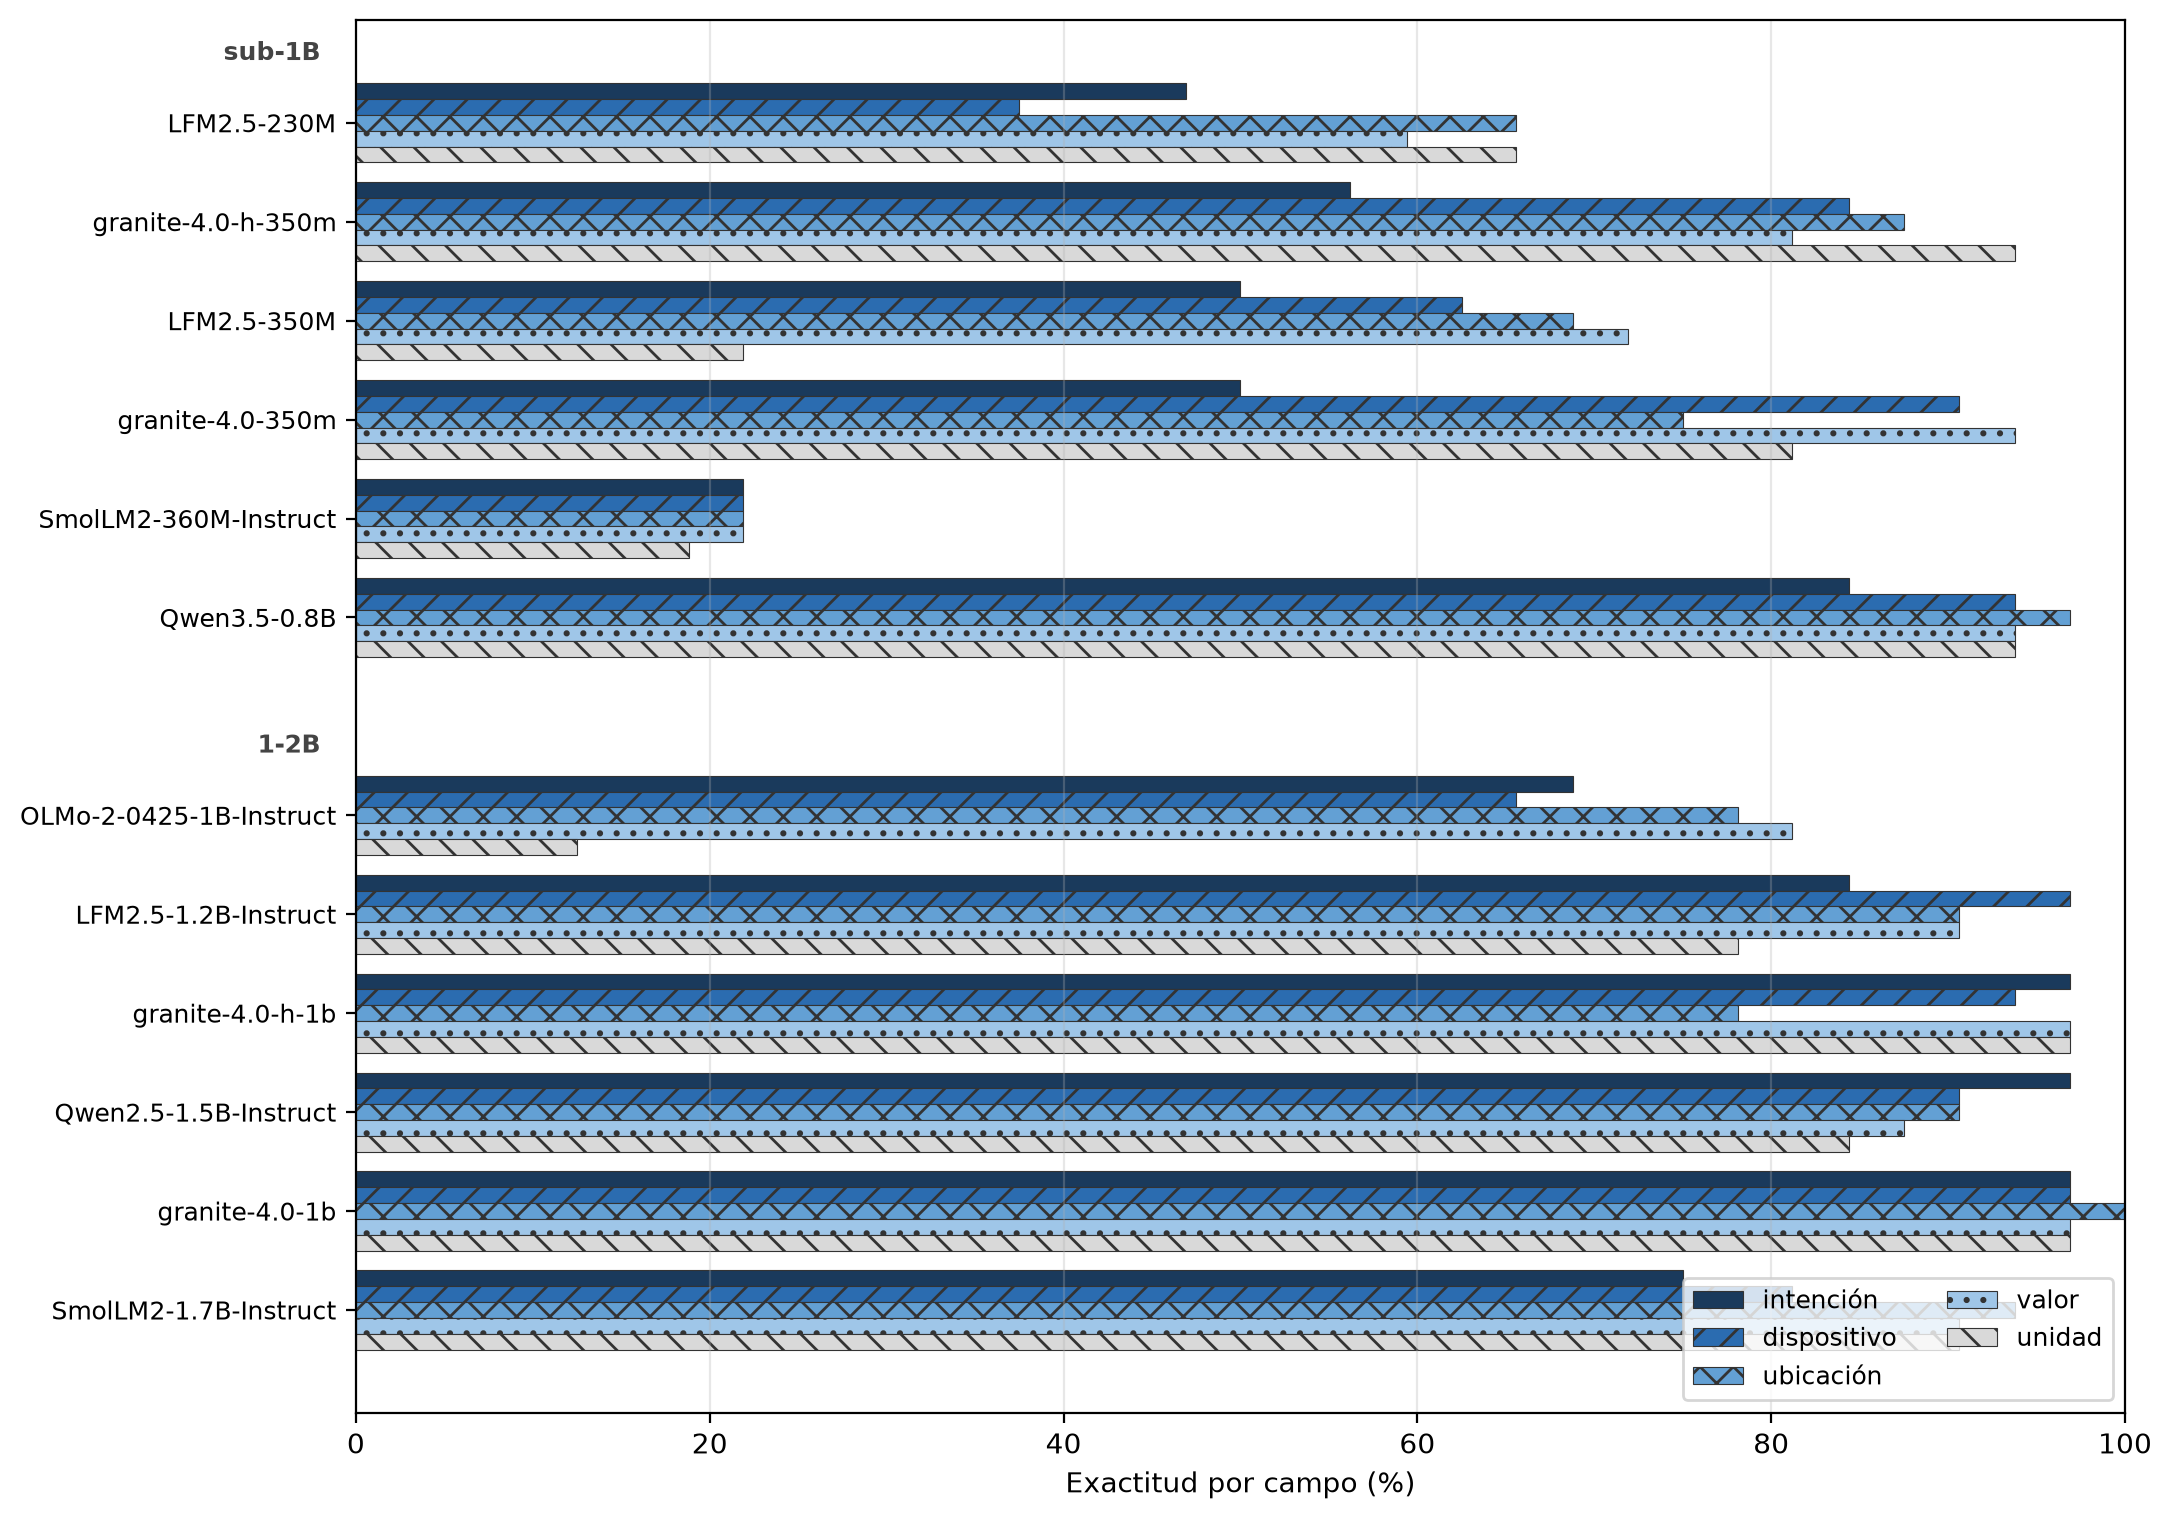
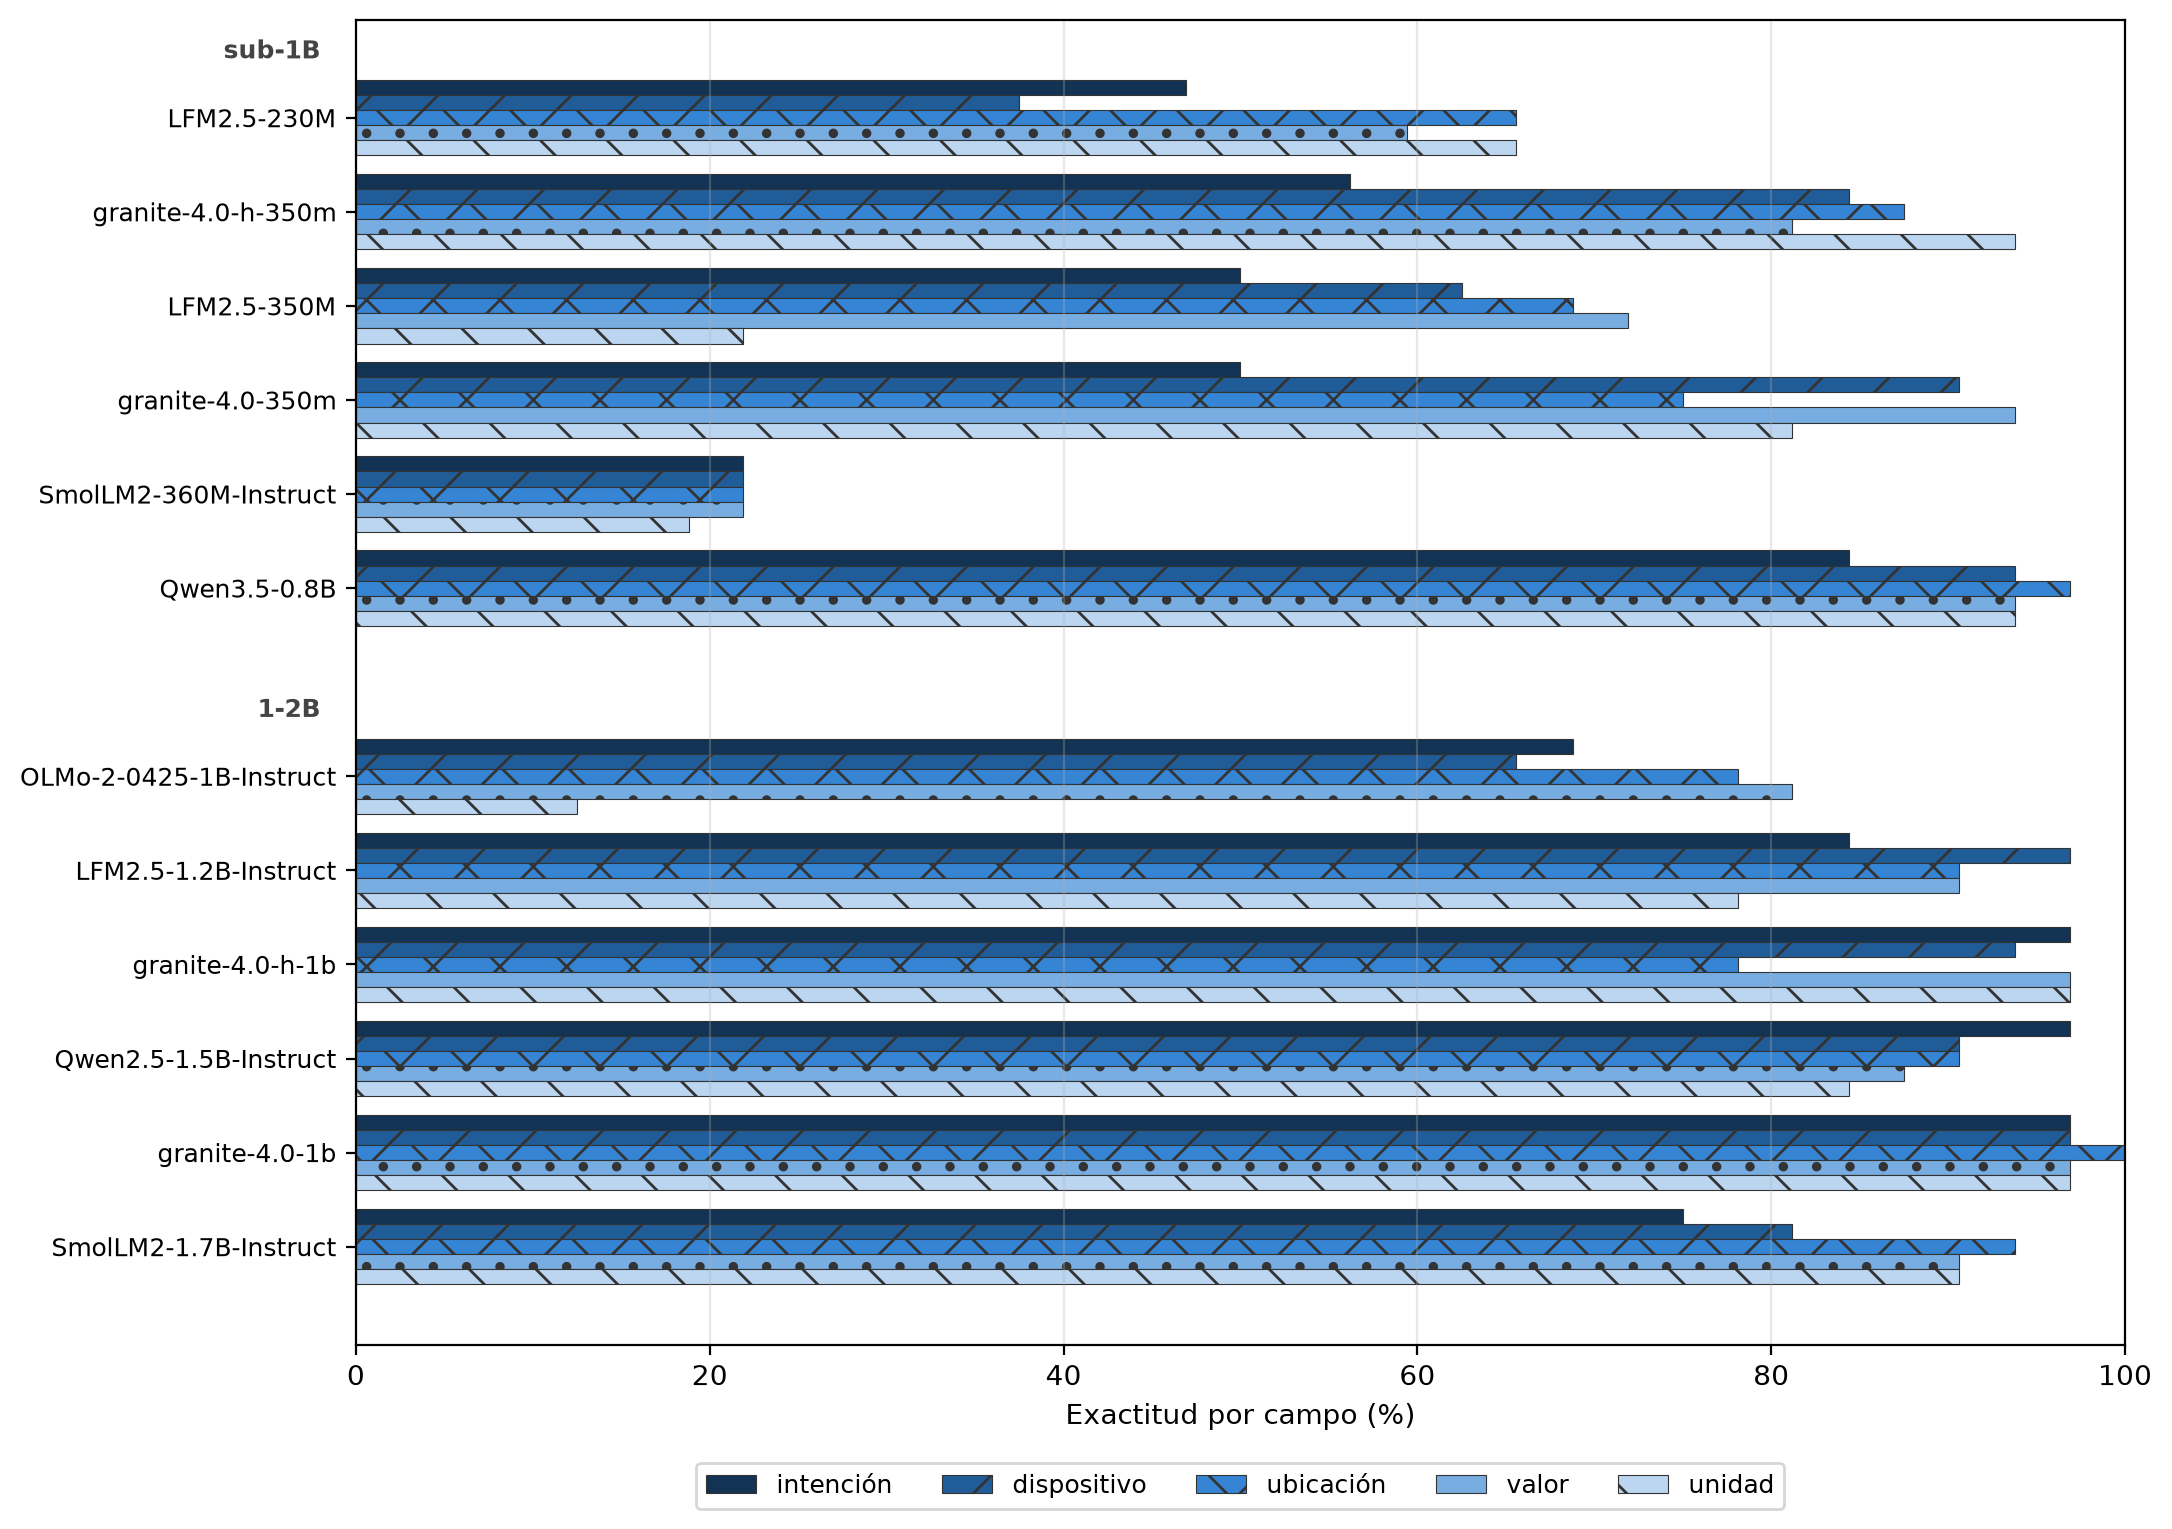
fix(2026): leyenda completa en fig1 y paleta/rayado/leyenda legibles en fig2
fig1: agrega una tercera entrada de leyenda (parche proxy) para el rayado
"laxa con JSON invalido", que antes solo se aplicaba post-hoc a dos barras
sin quedar explicado en la leyenda de 2 entradas.

fig2: reduce el rayado de las 5 series a un solo caracter (evita moire a
ancho de columna LNCS), reemplaza el par de celestes casi identicos
(ubicacion/valor) por una rampa de luminancia monotona con saltos >35/255,
y mueve la leyenda debajo del area de datos (ya no tapa las barras de
SmolLM2-1.7B-Instruct).

Sin cambios de datos, valores ni orden de modelos -- solo presentacion.
Verificado en escala de grises: las 5 series de fig2 siguen siendo
distinguibles por luminancia + textura.

diff --git a/src/generate_figures_2026.py b/src/generate_figures_2026.py
@@ -34,6 +34,7 @@ from pathlib import Path
 
 import matplotlib
 matplotlib.use("Agg")
+import matplotlib.patches as mpatches  # noqa: E402
 import matplotlib.pyplot as plt  # noqa: E402
 
 RAIZ = Path(__file__).resolve().parent.parent
@@ -52,14 +53,19 @@ CAMPOS_FIG2 = [
 ]
 
 # Orden categórico fijo para los 5 campos de fig. 2: un color por campo más
-# una textura redundante, para que la serie se distinga sin depender del
-# color (impresión en escala de grises).
+# una textura redundante de densidad mínima (un solo carácter), para que la
+# serie se distinga sin depender del color -- pero sin producir moire a
+# ancho de columna LNCS. Los 5 tonos son una rampa de luminancia monótona
+# (evitando el par "casi idéntico" #63a0d4/#9fc6e8 del diseño anterior, que
+# en escala de grises solo se distinguía por el rayado): luminancia
+# aproximada 45 / 81 / 118 / 164 / 209 sobre 255, con saltos >35 entre
+# vecinos.
 ESTILOS_FIG2 = [
-    {"color": "#1a3a5c", "hatch": None},
-    {"color": "#2b6cb0", "hatch": "//"},
-    {"color": "#63a0d4", "hatch": "xx"},
-    {"color": "#9fc6e8", "hatch": ".."},
-    {"color": "#d9d9d9", "hatch": "\\\\"},
+    {"color": "#123354", "hatch": None},
+    {"color": "#205c97", "hatch": "/"},
+    {"color": "#3585d4", "hatch": "x"},
+    {"color": "#78ade2", "hatch": "."},
+    {"color": "#bcd6f1", "hatch": "\\"},
 ]
 
 
@@ -171,7 +177,18 @@ def generar_figuras(path_resumen: Path, dir_salida: Path, sufijo: str) -> list[P
     izq.invert_yaxis()
     izq.set_xlabel("Coincidencia exacta (%)")
     izq.set_xlim(0, 108)
-    izq.legend(loc="lower right", fontsize=9)
+    # Tercera entrada de leyenda como parche proxy: el rayado no lo dibuja
+    # ninguna serie de barh (se aplica post-hoc solo a los dos parches
+    # afectados en _marcar_laxo_con_json_invalido), así que sin este proxy
+    # la leyenda de 2 entradas termina atribuyéndole el rayado a "laxa
+    # (semántica)" completa y las barras rayadas quedan sin explicar.
+    handles, labels = izq.get_legend_handles_labels()
+    if notas_laxo:
+        handles.append(mpatches.Patch(
+            facecolor="#90cdf4", hatch="///", edgecolor="#4a1010",
+            linewidth=0.7, label="laxa con JSON inválido",
+        ))
+    izq.legend(handles=handles, loc="lower right", fontsize=9)
     izq.grid(axis="x", alpha=0.3)
     _etiquetas_de_tier(izq, tiers, pos)
 
@@ -222,7 +239,12 @@ def generar_figuras(path_resumen: Path, dir_salida: Path, sufijo: str) -> list[P
     ax.invert_yaxis()
     ax.set_xlabel("Exactitud por campo (%)")
     ax.set_xlim(0, 100)
-    ax.legend(loc="lower right", fontsize=9, ncol=2)
+    # Leyenda fuera del área de datos (franja horizontal debajo del eje): con
+    # 5 series "lower right" caía encima de las barras de
+    # SmolLM2-1.7B-Instruct y tapaba datos. bbox_inches="tight" en el
+    # savefig de más abajo expande el lienzo para incluirla entera.
+    ax.legend(loc="upper center", bbox_to_anchor=(0.5, -0.08),
+              fontsize=9, ncol=len(CAMPOS_FIG2))
     ax.grid(axis="x", alpha=0.3)
     _etiquetas_de_tier(ax, tiers, pos)
 
